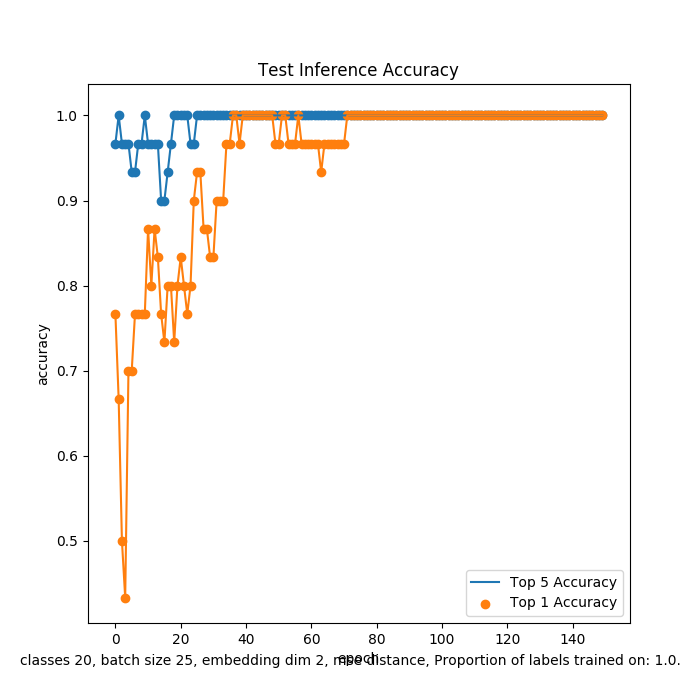
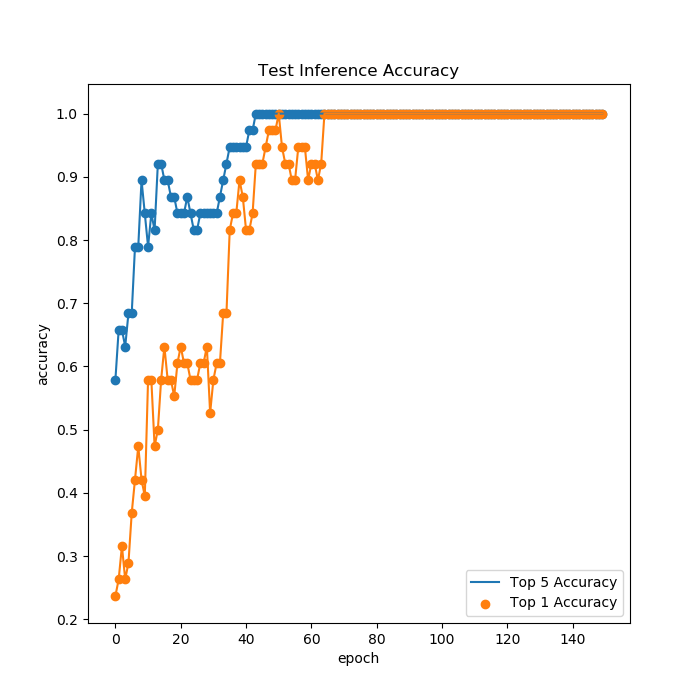
move labels off cuda mem

diff --git a/sse/geosim.py b/sse/geosim.py
@@ -48,7 +48,7 @@ def genSamples(npaths,nsteps):
     return paths
 
 def downSample(paths,nsamples=2,maxpts=100):
-    df = pd.DataFrame(columns=['sample','id','time','lon','lat'])
+    df = pd.DataFrame(columns=['id','classid','time','lon','lat'])
     for sample in range(nsamples):
         #ndpts = (1-np.random.power(5,size=paths.shape[0])) * maxpts
         ndpts = [100 for x in range(len(paths))]
@@ -57,19 +57,125 @@ def downSample(paths,nsamples=2,maxpts=100):
             times = np.random.choice(path.shape[0], int(n), replace=False)
             sampled = path[times]
             x,y = sampled[:,0],sampled[:,1]
-            idsha = hashlib.sha256(path).hexdigest()
-            df = df.append(pd.DataFrame(zip(it.repeat(sample),it.repeat(idsha),times,x,y),columns=['sample','id','time','lon','lat']))
+            classid = hashlib.sha256(path).hexdigest()
+            uid = str(sample) + '_' + str(classid)
+
+            df = df.append(pd.DataFrame(zip(it.repeat(uid),it.repeat(classid),times,x,y),columns=['id','classid','time','lon','lat']))
             
     return df
     
 def simchunk(i):
     #print(f'sim chunk {i} of 6000...')
+    #need to reset seed to ensure different randomness accross cpus
+    np.random.seed()
     npaths = NPATHS
     nsteps = 5000
     paths = genSamples(npaths,nsteps)
-    nsamples = random.randint(1,3)
+    nsamples = random.randint(2,3)
     df = downSample(paths,nsamples=nsamples)
-    df.to_csv('../chunks/simchunks{i}.csv'.format(i=i))
+    df['geohash'] = df.apply(
+        lambda row : gh.encode(row.lat,row.lon,precision=7),axis=1)
+    df.to_csv('/geosim/simchunks{i}.csv'.format(i=i),index=False)
+
+def load_rw_data_streaming(classes_to_load,p_train,max_test,save,load):
+    """Loads random walk data and converts it into a DGL graph in streaming
+    fashion so minimize RAM usage for large graph creation"""
+
+    if load:
+        with open('/geosim/gdata.pkl','rb') as gpkl:
+            data = pickle.load(gpkl)
+        return data
+
+
+    p = pathlib.Path('/geosim/')
+    files = p.glob('simchunks*.csv')
+    df = pd.DataFrame()
+    nclasses = 0
+    G = DGLGraph()
+    node_ids = pd.DataFrame(columns=['id','intID','classid'])
+    pbar = tqdm.tqdm(total=classes_to_load)
+    for f in files:
+        if nclasses>=classes_to_load:
+            break
+
+        df = pd.read_csv(f.__str__())
+        df = df[['id','classid','geohash']]
+
+        entities = df[['id','classid']].drop_duplicates()
+        geohashes = pd.DataFrame(zip(df.geohash,it.repeat(-1)),columns=['id','classid']).drop_duplicates()
+        nodes = pd.concat([entities, geohashes])
+        nodes = nodes.merge(node_ids,on='id',how='left',suffixes=('','_merged'))
+        num_new_nodes = int(nodes.intID.isna().sum())
+        current_maximum_id = node_ids.intID.max()
+        start =(current_maximum_id+1)
+        if np.isnan(start):
+            start = 0
+        end = start + num_new_nodes
+        new_nodes = pd.isna(nodes.intID)
+        nodes.loc[new_nodes,'intID'] = list(range(start,end))
+        update_nodes = nodes[new_nodes]
+        update_nodes = update_nodes[['id','intID','classid']]
+        node_ids = pd.concat([node_ids,update_nodes])
+
+        edges = df.merge(nodes,left_on='id',right_on='id',how='left')
+        edges = edges.merge(nodes,left_on='geohash',right_on='id',how='left',suffixes=('','_geohash'))
+        edges = edges[['intID','intID_geohash']]
+
+        G.add_nodes(num_new_nodes)
+        G.add_edges(edges.intID.tolist(),edges.intID_geohash.tolist())
+        G.add_edges(edges.intID_geohash.tolist(),edges.intID.tolist())
+
+
+        added = df.classid.nunique()
+        nclasses += added
+        pbar.update(added)
+    pbar.close()
+
+
+    G.readonly()
+    G = dgl.as_heterograph(G)
+    print('graph completed... computing train, test split')
+
+    node_ids['intID'] = pd.to_numeric(node_ids['intID'])
+    #node_ids = node_ids.sort_values('intID')
+
+    embed = nn.Embedding(len(node_ids),256)
+    G.ndata['features'] = embed.weight
+
+    classnums = pd.DataFrame(node_ids.classid.unique(),columns=['classid'])
+    classnums['label'] = list(range(len(classnums)))
+    classnums.loc[classnums.classid==-1,'label'] = -1
+    node_ids = node_ids.merge(classnums,on='classid')
+    node_ids = node_ids.sort_values('intID')
+    node_ids.to_csv('./test.csv')
+    labels = node_ids.label.tolist()
+    labels = np.array(labels,dtype=np.float32)
+    
+    train_mask =  np.random.choice(
+        a=[False,True],size=(len(node_ids)),p=[1-p_train,p_train])
+
+
+    test_labels =  np.random.choice(
+        a=list(range(nclasses)),size=min(max_test,nclasses),replace=False)
+    test_mask = [l in test_labels for l in node_ids.label.tolist()]
+
+    is_relevant_node = node_ids.label.to_numpy() >= 0 #only -1 is not relevant
+    #test_mask = np.logical_not(is_relevant_node)
+    train_mask = np.logical_and(train_mask,is_relevant_node)
+    test_mask = np.logical_and(test_mask,is_relevant_node)
+    #test_mask = np.logical_or(test_mask,train_mask)
+
+    train_mask = [1 if tf else 0 for tf in train_mask]
+    test_mask = [1 if tf else 0 for tf in test_mask]
+
+    if save:
+        with open('/geosim/gdata.pkl','wb') as gpkl:
+            data = (G, embed, labels, train_mask, test_mask,nclasses,is_relevant_node)
+            pickle.dump(data,gpkl)
+
+
+    return G, embed, labels, train_mask, test_mask,nclasses,is_relevant_node
+
 
 def load_rw_data(classes_to_load,p_train,max_test,save,load):
     """Loads random walk data and converts it into a DGL graph"""
@@ -80,10 +186,11 @@ def load_rw_data(classes_to_load,p_train,max_test,save,load):
         return data
 
 
-    p = pathlib.Path('../chunks')
+    p = pathlib.Path('/geosim/')
     files = p.glob('simchunks*.csv')
     df = pd.DataFrame()
     nclasses = 0
+    geohash_ids = pd.DataFrame(columns=['Nodes'])
     for f in tqdm.tqdm(files,total=classes_to_load//1000):
         if nclasses>=classes_to_load:
             break
@@ -125,10 +232,6 @@ def load_rw_data(classes_to_load,p_train,max_test,save,load):
     G.add_edges(edges.id_x.tolist(),edges.id_y.tolist())
     G.add_edges(edges.id_y.tolist(),edges.id_x.tolist())
     G.readonly()
-
-    #ntypes = ['id' for _ in range(n_id_nodes)] + ['geohash' for _ in range(n_geohash_nodes)]
-    #etypes = ['to' for _ in range(len(nodes))]
-    #G = dgl.to_hetero(G,ntypes,etypes)
 
     G = dgl.as_heterograph(G)
 
@@ -182,7 +285,13 @@ if __name__=="__main__":
 
     NPATHS = args.npaths 
 
-    with Pool(mp.cpu_count()) as pp:
-        pp.map(simchunk,range(args.nfiles))
+
+    pool = Pool(mp.cpu_count())
+    for _ in tqdm.tqdm(pool.imap_unordered(simchunk,range(args.nfiles)), total=args.nfiles):
+        pass
+    pool.close()
+    pool.join()
+    #with Pool(mp.cpu_count()) as pp:
+        #pp.map(simchunk,range(args.nfiles))
 
     

diff --git a/sse/SageSimEmbed.py b/sse/SageSimEmbed.py
@@ -31,7 +31,7 @@ import torch.nn.functional as F
 from torch.utils.data import DataLoader
 import faiss
 
-from geosim import load_rw_data
+from geosim import load_rw_data, load_rw_data_streaming
 from torchmodels import *
 
 GPU = faiss.StandardGpuResources()
@@ -55,16 +55,16 @@ class SimilarityEmbedder:
         self.features = self.embed.weight
         self.features.to(self.device)
         self.embed.to(self.device)
-        self.labels.to(self.device)
+        #self.labels.to(self.device)
         self.optimizer = th.optim.Adam(it.chain(self.net.parameters(),self.embed.parameters()), lr=args.lr)
 
         self.sup_sampler = NeighborSampler(self.g, [int(fanout) for fanout in args.fan_out.split(',')])
         self.unsup_sampler = UnsupervisedNeighborSampler(self.g, [int(fanout) for fanout in args.fan_out.split(',')],args.neg_samples)
 
-        self.train_nid = th.LongTensor(np.nonzero(self.train_mask)[0])
-        self.test_nid = th.LongTensor(np.nonzero(self.test_mask)[0])
-        self.train_mask = th.BoolTensor(self.train_mask)
-        self.test_mask = th.BoolTensor(self.test_mask)
+        self.train_nid = np.nonzero(self.train_mask)[0]
+        self.test_nid = np.nonzero(self.test_mask)[0]
+        #self.train_mask = self.train_mask
+        #self.test_mask = self.test_mask
 
         self.batch_size = args.batch_size
         self.sup_weight = args.sup_weight
@@ -75,7 +75,7 @@ class SimilarityEmbedder:
 
         cf = lambda i : (self.sup_sampler.sample_blocks(i), self.unsup_sampler.sample_blocks(i))
         self.dataloader = DataLoader(
-                            dataset=self.train_nid.numpy(),
+                            dataset=self.train_nid,
                             batch_size=args.batch_size,
                             collate_fn=cf,
                             shuffle=True,
@@ -112,8 +112,8 @@ class SimilarityEmbedder:
 
 
     def setup_pairwise_eval_tensors(self):
-        test_labels = self.labels[self.test_mask].detach().numpy().tolist()
-        labelsnp = self.labels[self.is_relevant_mask].detach().numpy().tolist()
+        test_labels = self.labels[self.test_mask]
+        labelsnp = self.labels[self.is_relevant_mask]
 
         self.test_idx = []
         self.test_idx2 = []
@@ -146,17 +146,17 @@ class SimilarityEmbedder:
                 raise ValueError('distance {} is not implemented'.format(self.distance))
 
             print('computing embeddings for all nodes...')
-            embeddings = self.net.inference(self.g, self.features,self.batch_size,self.device)
+            embeddings = self.net.inference(self.g, self.features,25000,self.device)
             embeddings_np = embeddings.detach().cpu().numpy()
             test_embeddings_np = embeddings_np[self.test_mask]
-            test_labels = self.labels[self.test_mask].detach().numpy().tolist()
-            embeddings = embeddings[self.is_relevant_mask]
+            test_labels = self.labels[self.test_mask]
+            #embeddings = embeddings[self.is_relevant_mask]
 
             if self.embedding_dim == 2:
                 self.all_embeddings.append(embeddings.detach())
 
 
-            labels = self.labels[self.is_relevant_mask].detach().numpy().tolist()
+            labels = self.labels[self.is_relevant_mask]
 
             t = time.time()
             if self.distance=='cosine':
@@ -174,6 +174,8 @@ class SimilarityEmbedder:
                 index = faiss.index_cpu_to_gpu(GPU, 0, index)
                 index.add(embeddings_np[self.is_relevant_mask])
                 D, I = index.search(test_embeddings_np,5+1)
+
+            index.reset() #free gpu memory
             ft1, ft5 = [], []
             for node, neighbors in enumerate(I):
                 label = test_labels[node]
@@ -187,7 +189,6 @@ class SimilarityEmbedder:
 
     def pairwise_distance_loss(self,embeddings,seeds,labels):
         
-        labels = labels.cpu().numpy()
         batch_relevant_nodes = [i for i,l in enumerate(labels) if l!=-1]
         embeddings = embeddings[batch_relevant_nodes]
         labels = labels[batch_relevant_nodes]
@@ -262,7 +263,7 @@ class SimilarityEmbedder:
                     sup_seeds = sup_blocks[-1].dstdata[dgl.NID]
 
                     sup_batch_inputs = self.g.ndata['features'][sup_input_nodes].to(self.device)
-                    sup_batch_labels = self.labels[sup_seeds].to(self.device)
+                    sup_batch_labels = self.labels[sup_seeds]
 
                     sup_embeddings = self.net(sup_blocks, sup_batch_inputs)
 
@@ -287,9 +288,11 @@ class SimilarityEmbedder:
                 self.optimizer.zero_grad()
                 loss.backward()
                 self.optimizer.step()
+                th.cuda.empty_cache()
 
-                print("Epoch {:05d} | Step {:0.1f} | Loss {:.8f}".format(
-                        epoch, step, loss.item()))
+
+                print("Epoch {:05d} | Step {:0.1f} | Loss {:.8f} | Mem+Maxmem {:.3f} / {:.3f}".format(
+                        epoch, step, loss.item(), th.cuda.memory_allocated()/(1024**3),th.cuda.max_memory_allocated()/(1024**3)))
             
             loss_history.append(loss.item())
             if epoch % test_every_n_epochs == 0 or epoch==epochs:
@@ -342,7 +345,7 @@ class SimilarityEmbedder:
 
     def animate(self,test_every_n_epochs):
 
-        labelsnp = self.labels.detach().numpy().tolist()
+        labelsnp = self.labels.detach().numpy()[self.is_relevant_mask]
         for i,embedding in enumerate(tqdm.tqdm(self.all_embeddings)):
             data = embedding.cpu().numpy()
             fig = plt.figure(dpi=150)
@@ -410,7 +413,7 @@ since currently relying on all pairwise search for testing.")
 
 
     print('loading data...')
-    rw_data = load_rw_data(args.n_classes,args.p_train,args.max_test_labels,args.save,args.load)
+    rw_data = load_rw_data_streaming(args.n_classes,args.p_train,args.max_test_labels,args.save,args.load)
     trainer = SimilarityEmbedder(rw_data,args)
     trainer.train(args.num_epochs,args.test_every)
 
